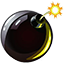
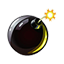
changed image size

diff --git a/The Game You Don‘t Want to Play/src/gui/View.java b/The Game You Don‘t Want to Play/src/gui/View.java
@@ -104,12 +104,21 @@ public class View extends JComponent implements Observer {
 
 		for (int x = 0; x < Level.BOARDSIZE; x++) {
 			for (int y = 0; y < Level.BOARDSIZE; y++) {
+				
+				int py =y * TILESIZE;
+				int px =x * TILESIZE;
 				int code=0;
+				
 				try {
 				if(board.GetCurrentLevel().GetEntityAt(x, y)!=null) {
-				code = board.GetCurrentLevel().GetEntityAt(x, y).GetCode();
+					code = board.GetCurrentLevel().GetEntityAt(x, y).GetCode();
+					if(code>=90&&code<100) {
+						py+=16;
+						px+=16;
+					}
+				
 				ImageIcon img = new ImageIcon(View.class.getResource("/Entities/"+code+".png"));
-				img.paintIcon(null, g, y * TILESIZE, x * TILESIZE);
+				img.paintIcon(null, g, py,px);
 				}
 				if(code==60)y+=1;
 				}catch(NullPointerException e) {

diff --git a/The Game You Don‘t Want to Play/src/controllers/KeyController.java b/The Game You Don‘t Want to Play/src/controllers/KeyController.java
@@ -44,9 +44,7 @@ public class KeyController implements KeyListener {
 				break;
 			}
 		} catch (main.InvalidMove invalidMove) {
-			//invalidMove.printStackTrace();
-			//print error message instead of throwing one.
-			System.out.println(invalidMove.getMessage());
+			invalidMove.printStackTrace();
 		}
 	}
 

diff --git a/The Game You Don‘t Want to Play/src/character/InvalidMove.java b/The Game You Don‘t Want to Play/src/character/InvalidMove.java
@@ -1,0 +1,13 @@
+package character;
+
+/**
+ * An exception that indicates an attempt to make an invalid move.
+ * @author stella
+ *
+ */
+@SuppressWarnings("serial")
+public class InvalidMove extends Exception {
+	public InvalidMove(String msg) {
+		super(msg);
+	}
+}

diff --git a/The Game You Don‘t Want to Play/src/Board/InvalidConstruct.java b/The Game You Don‘t Want to Play/src/Board/InvalidConstruct.java
@@ -1,0 +1,11 @@
+package Board;
+
+public class InvalidConstruct extends Exception {
+/**
+	 * 
+	 */
+	private static final long serialVersionUID = 1L;
+	public InvalidConstruct(String s){
+		super(s);
+	}
+}

diff --git a/The Game You Don‘t Want to Play/src/Board/NPC.java b/The Game You Don‘t Want to Play/src/Board/NPC.java
@@ -1,0 +1,10 @@
+package Board;
+
+public class NPC extends Entity{
+
+	public NPC(int code, int x, int y, int size) {
+		super(code, x, y, size);
+		// TODO Auto-generated constructor stub
+	}
+
+}
